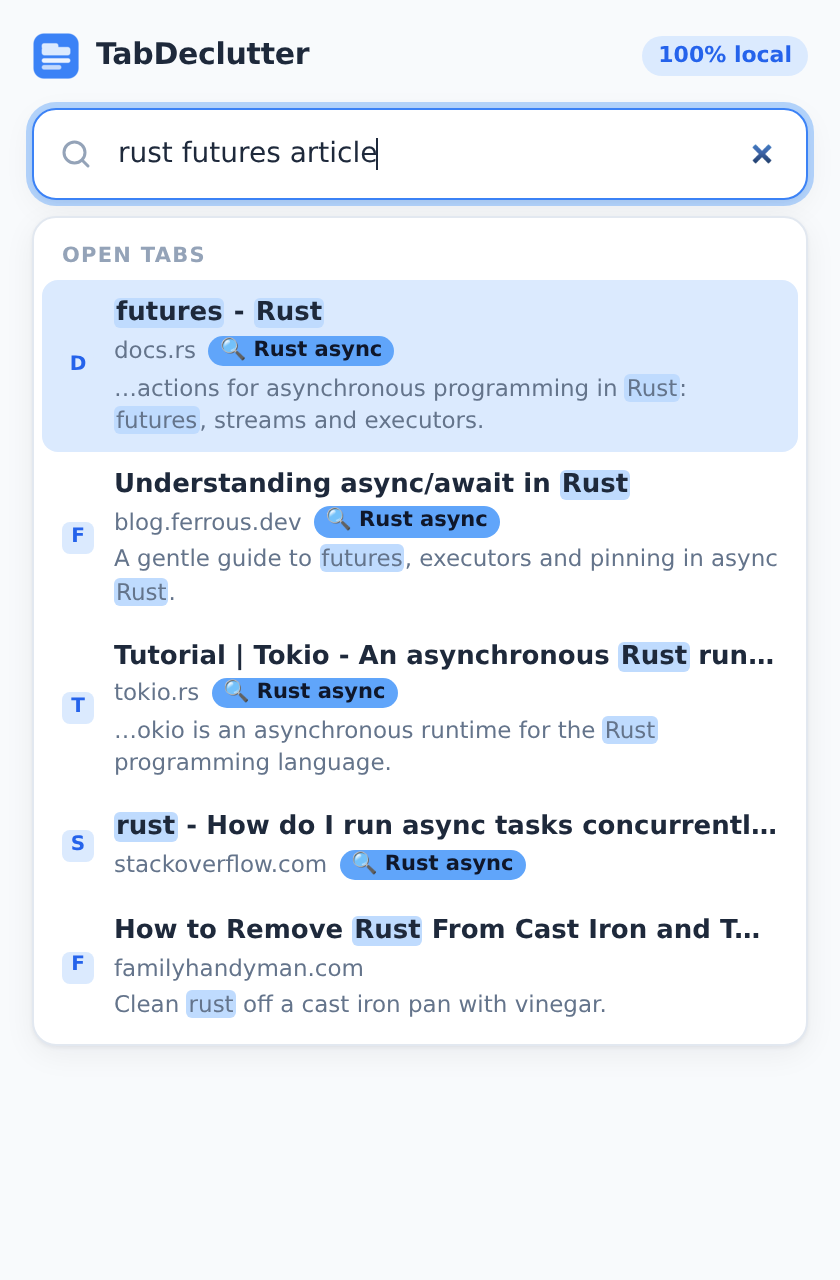
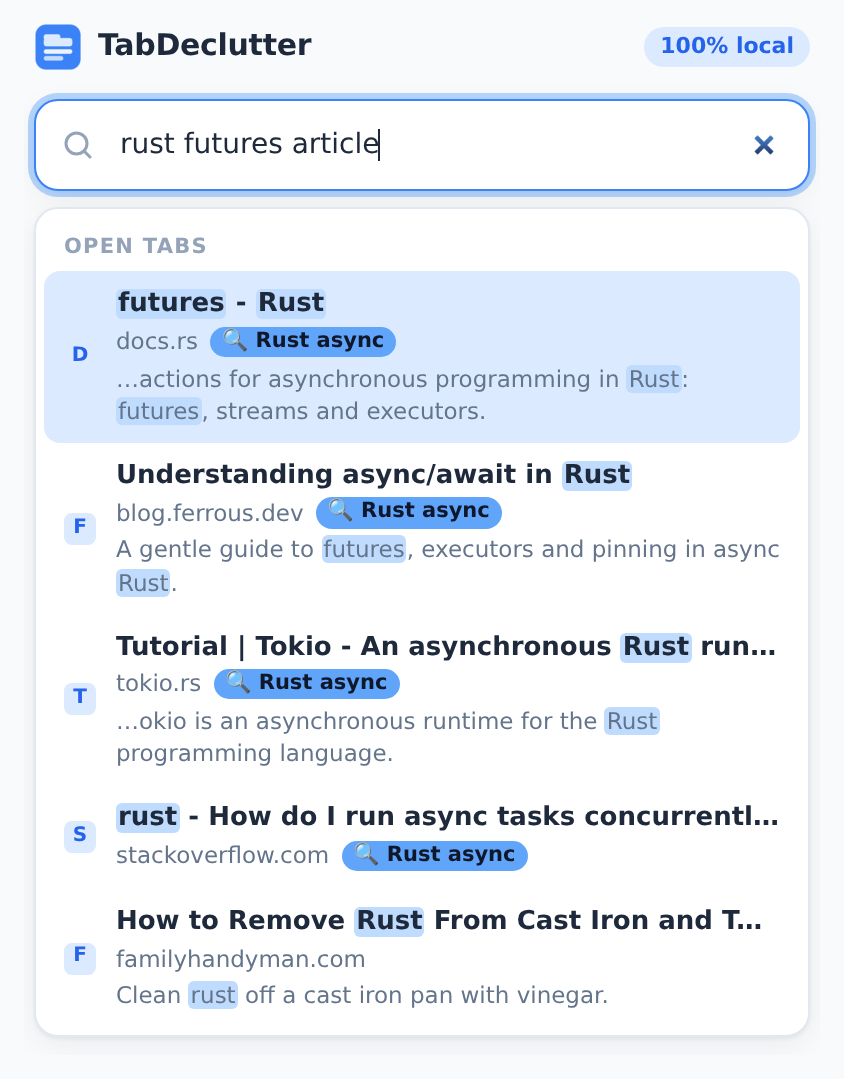
README: crop screenshots and fit them on one row
Amp-Thread-ID: https://ampcode.com/threads/T-01a16d82-db02-763c-a080-fa1820fa51d2

Changed region(s): [[0.031, 0.0, 0.9905, 0.9481], [0.8667, 0.8563, 0.8976, 0.8869]]

diff --git a/README.md b/README.md
@@ -4,10 +4,10 @@
 
 Everything runs inside your browser. No account, no servers, no data leaves your computer.
 
-<p align="center">
-  <img src="docs/dashboard.png" alt="TabDeclutter dashboard" width="280">
-  <img src="docs/search-open-tabs.png" alt="Searching open tabs" width="280">
-  <img src="docs/search-closed-pages.png" alt="Finding a page closed earlier" width="280">
+<p align="center" valign="top">
+  <img src="docs/dashboard.png" alt="TabDeclutter dashboard" width="250">
+  <img src="docs/search-open-tabs.png" alt="Searching open tabs" width="250">
+  <img src="docs/search-closed-pages.png" alt="Finding a page closed earlier" width="250">
 </p>
 
 ## What it does
